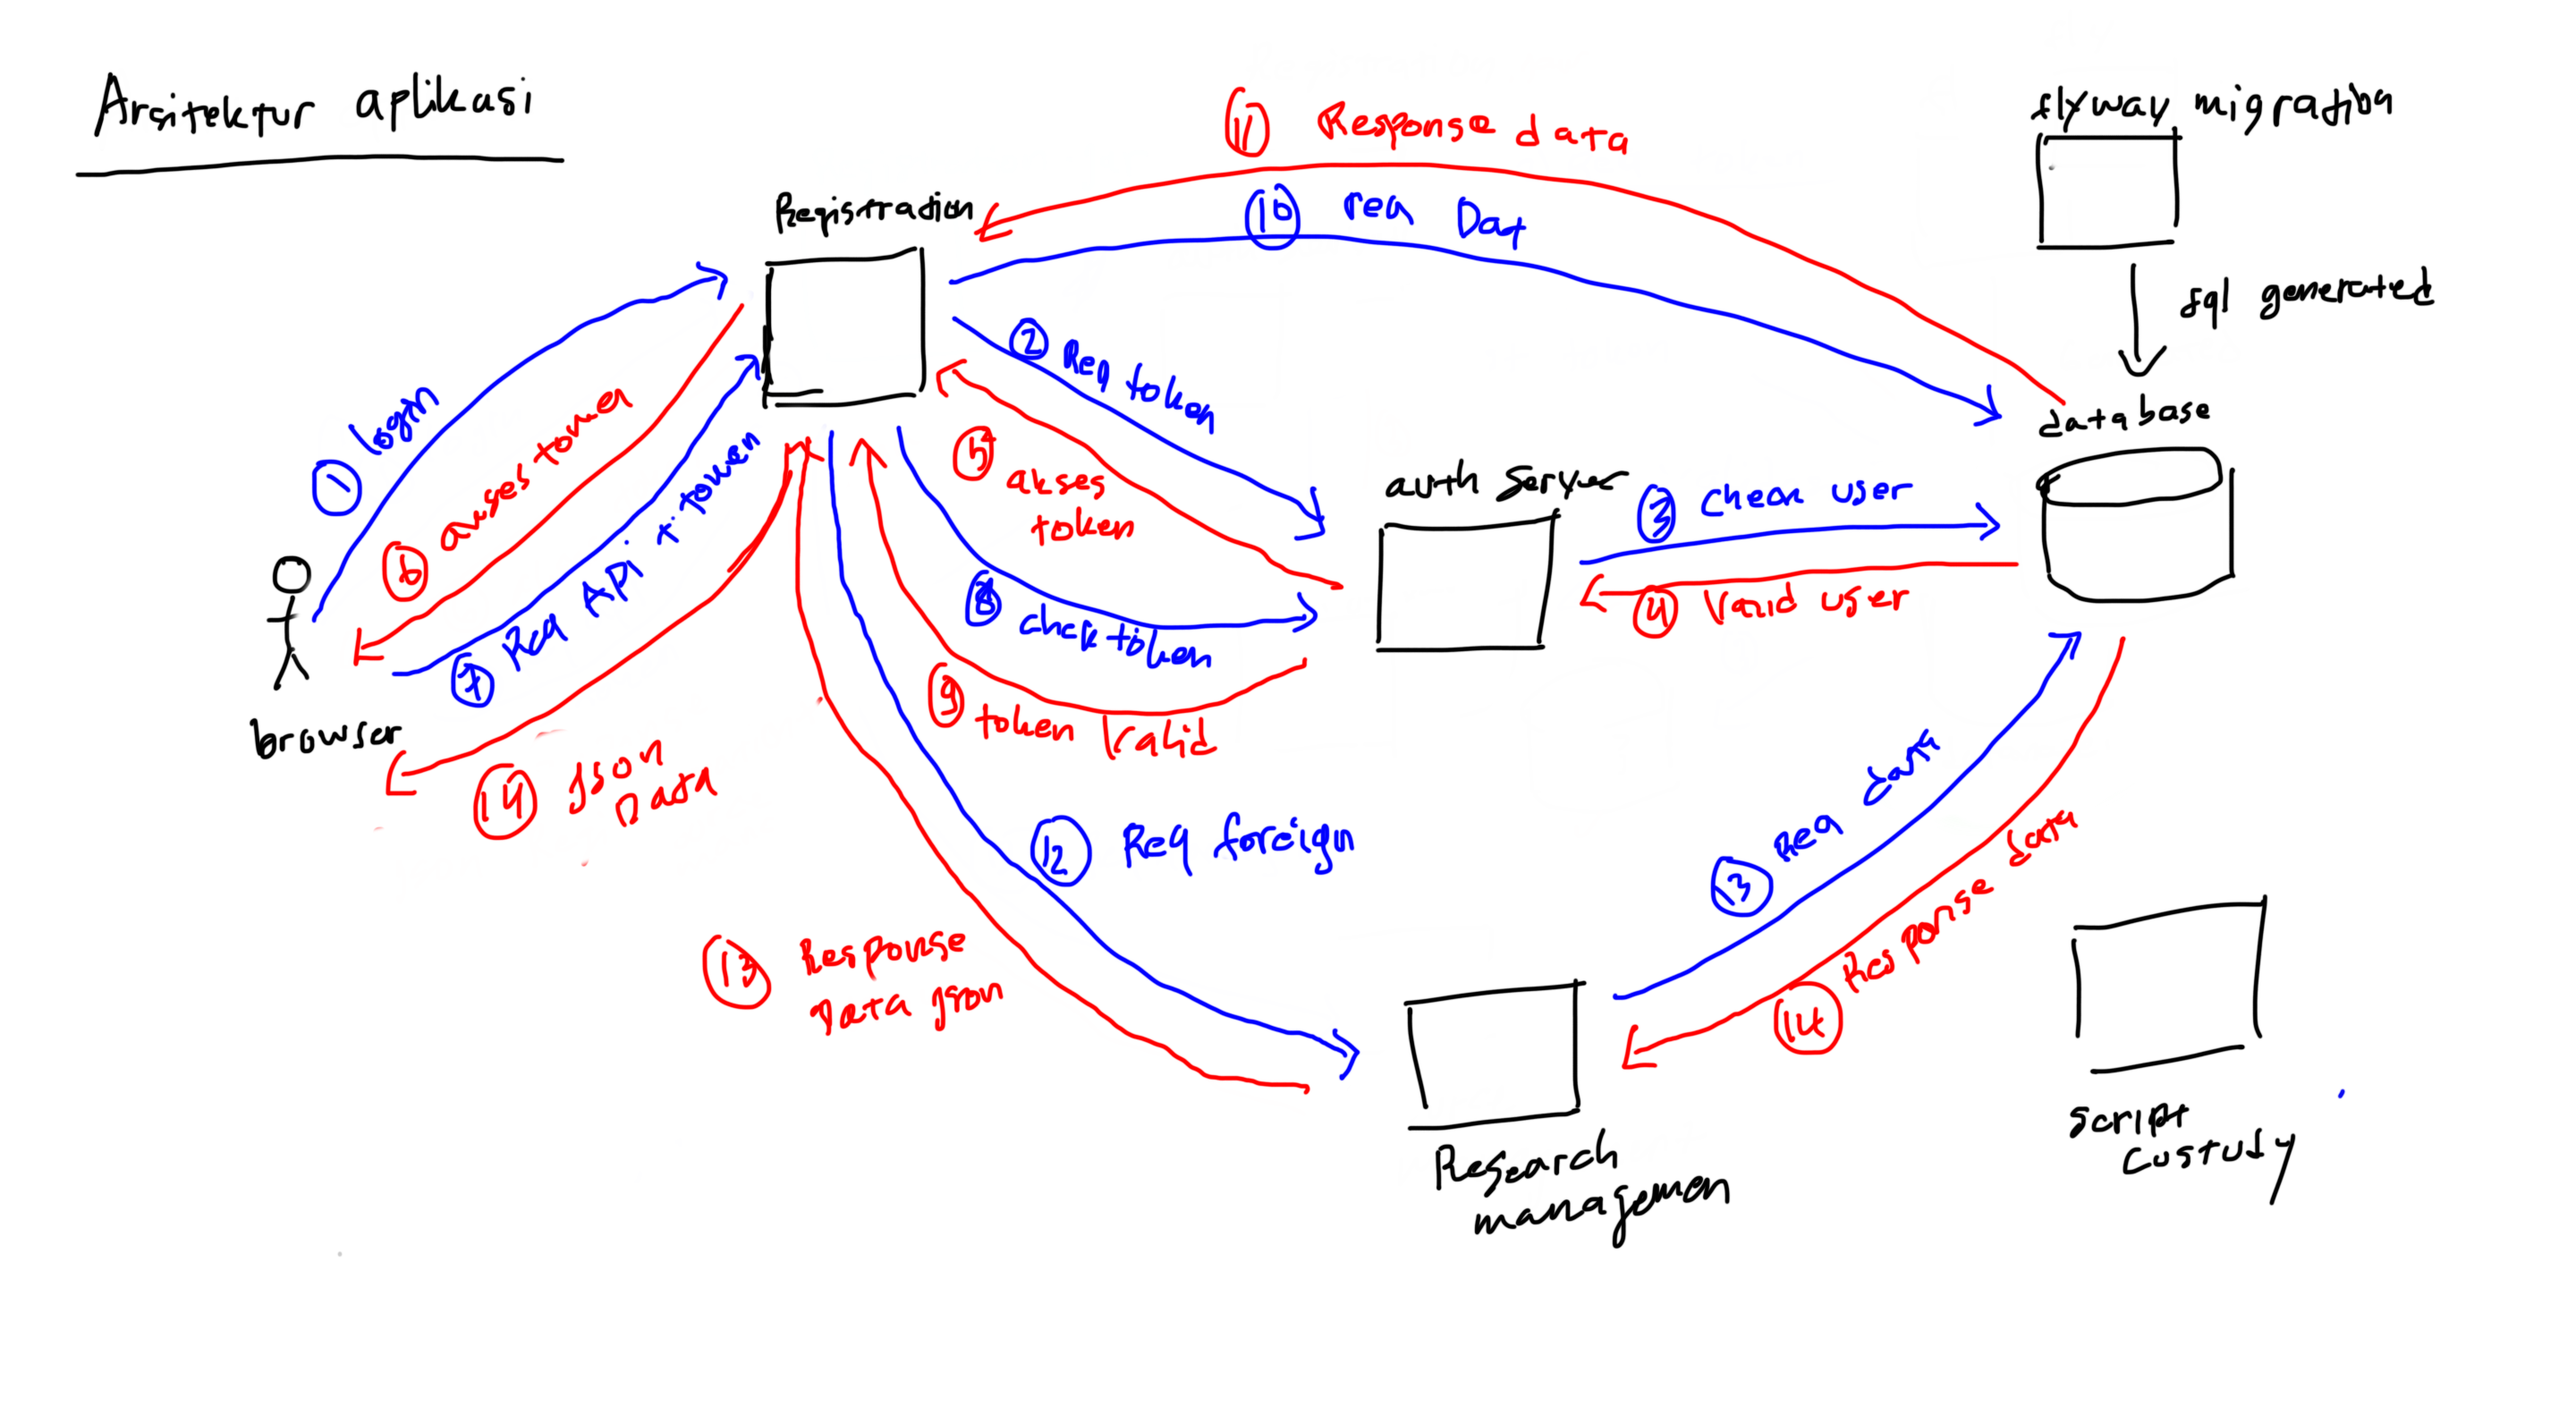
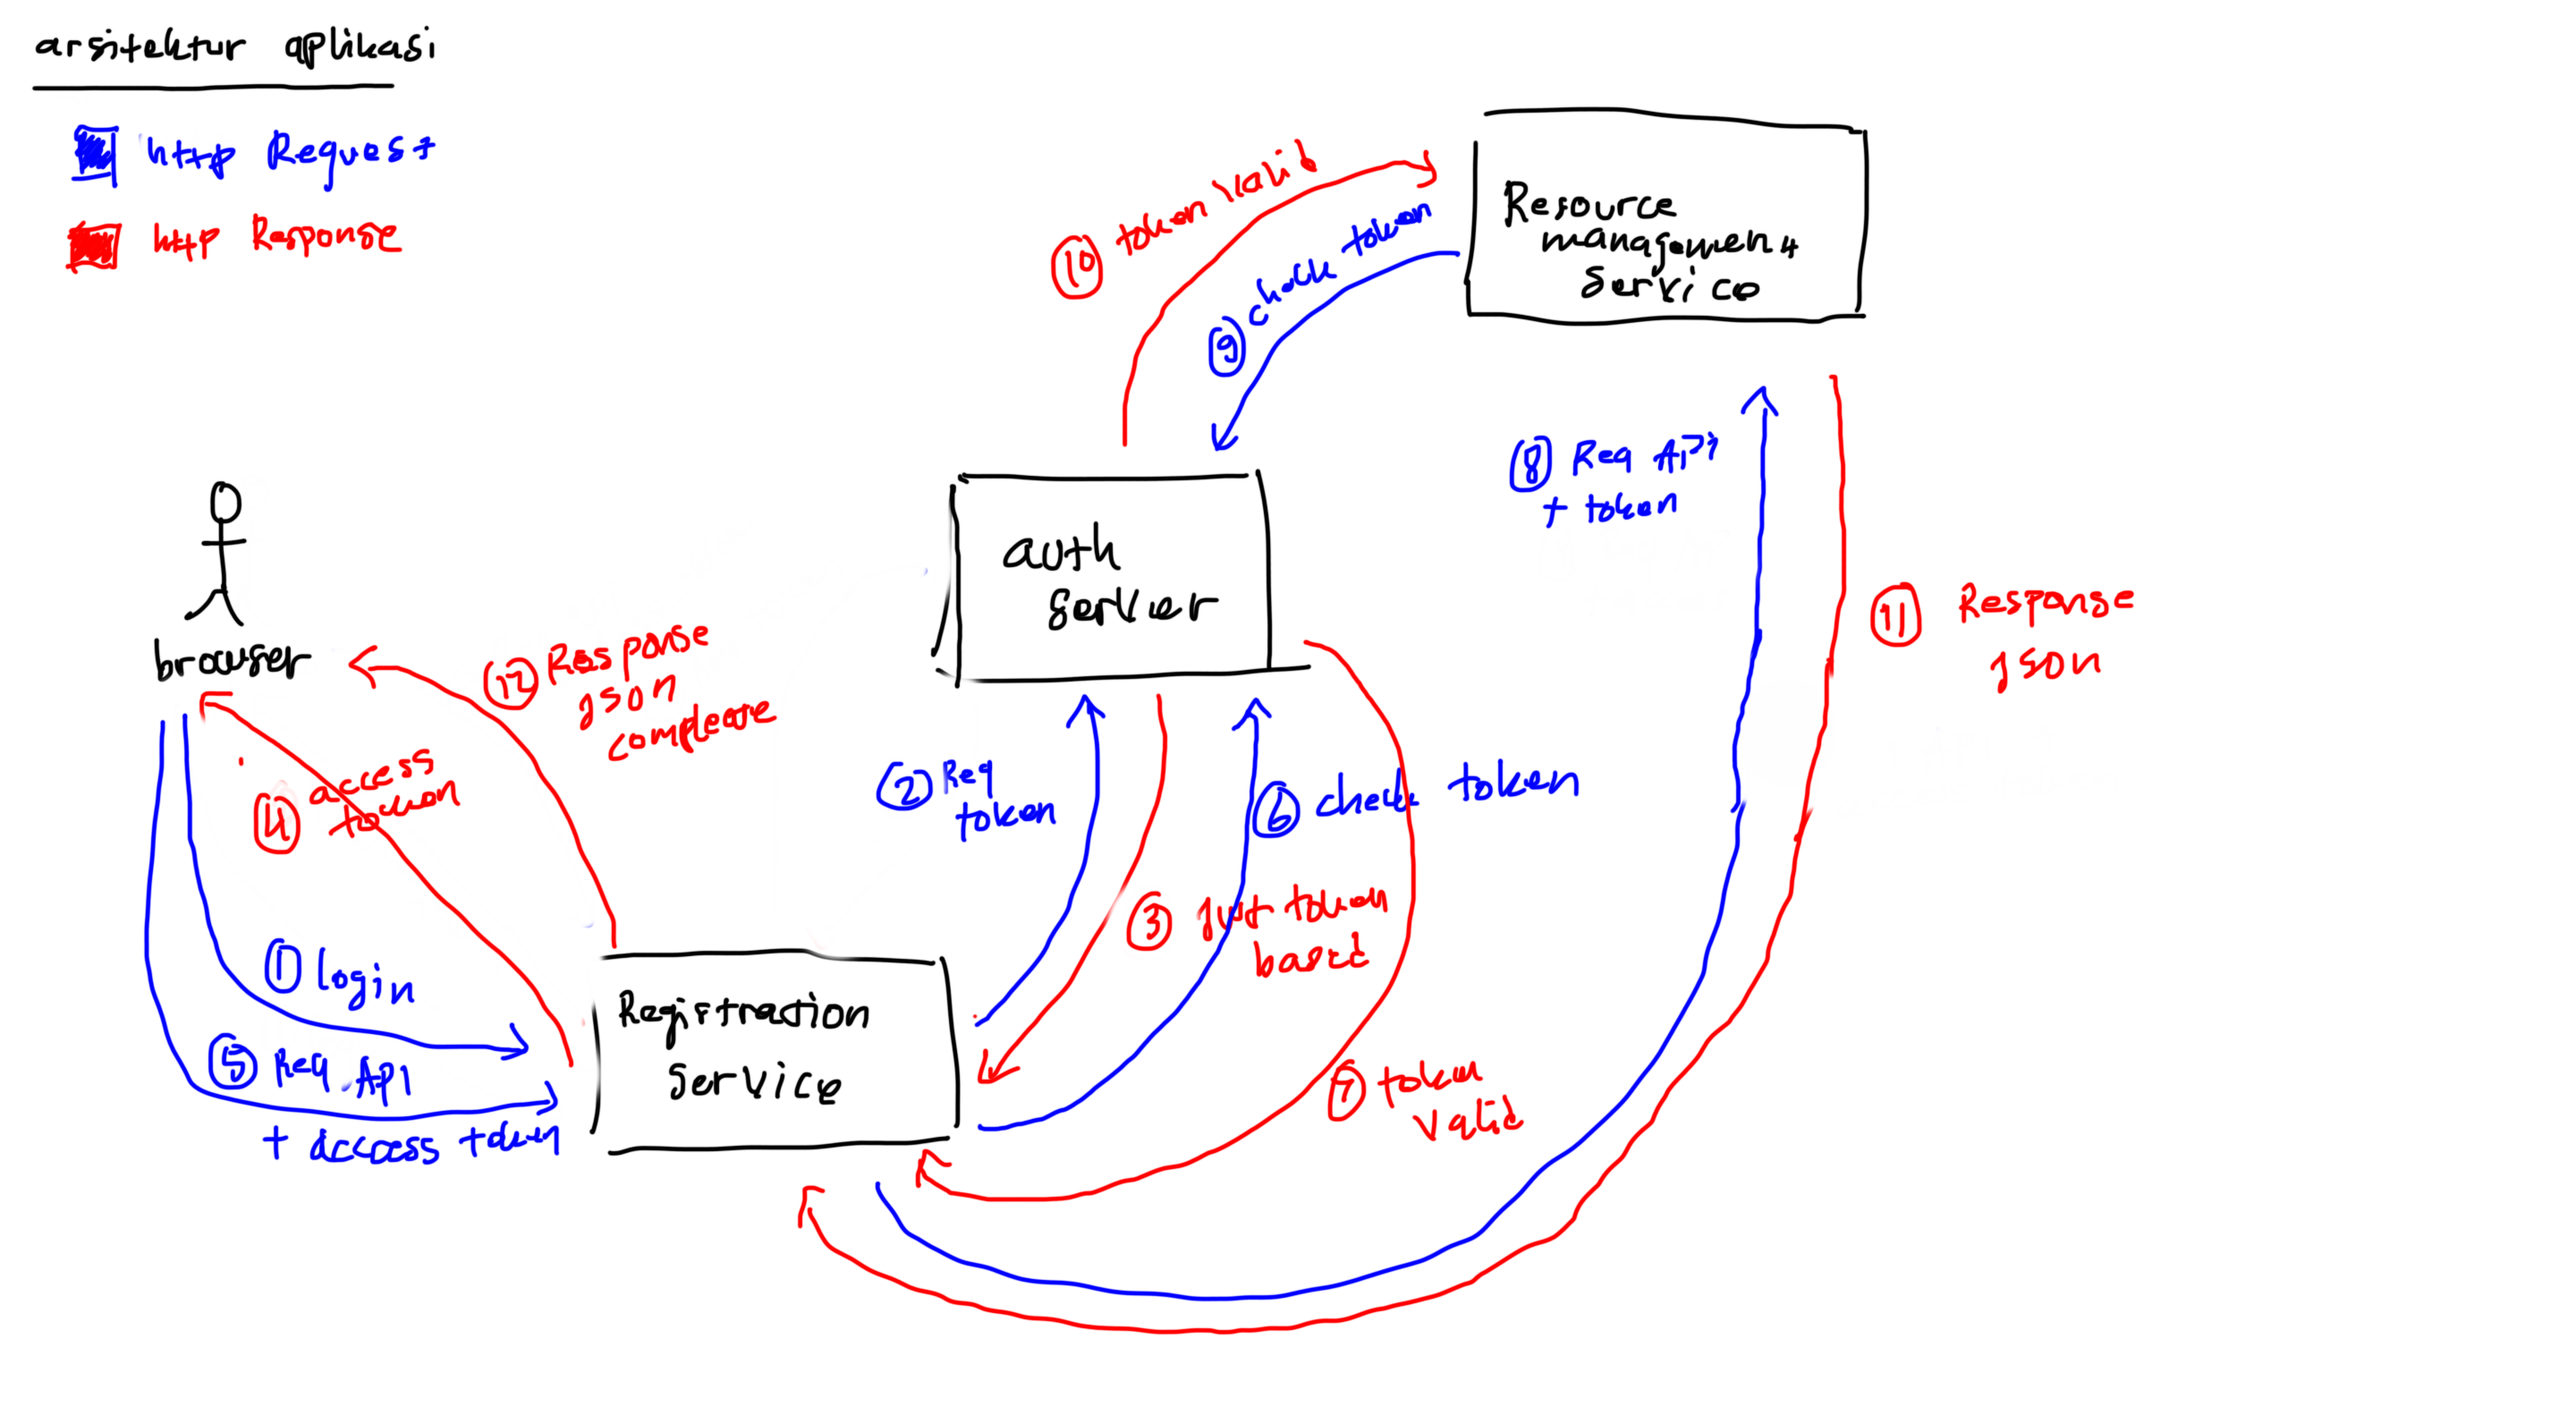
update dokumentasi dan arsitketur microservice

diff --git a/service-registration/src/main/java/com/maryanto/dimas/example/config/SecurityCustomeRestTemplateHeaderAuthentication.java b/service-registration/src/main/java/com/maryanto/dimas/example/config/SecurityCustomeRestTemplateHeaderAuthentication.java
@@ -1,0 +1,29 @@
+package com.maryanto.dimas.example.config;
+
+import org.slf4j.Logger;
+import org.slf4j.LoggerFactory;
+import org.springframework.http.HttpHeaders;
+import org.springframework.http.HttpRequest;
+import org.springframework.http.client.ClientHttpRequestExecution;
+import org.springframework.http.client.ClientHttpRequestInterceptor;
+import org.springframework.http.client.ClientHttpResponse;
+import org.springframework.security.core.Authentication;
+import org.springframework.security.core.context.SecurityContextHolder;
+
+import java.io.IOException;
+
+public class SecurityCustomeRestTemplateHeaderAuthentication implements ClientHttpRequestInterceptor {
+
+    private static final String AUTHORIZATION = "Authorization";
+
+    private static final Logger console = LoggerFactory.getLogger(SecurityCustomeRestTemplateHeaderAuthentication.class);
+
+    @Override
+    public ClientHttpResponse intercept(HttpRequest httpRequest, byte[] bytes, ClientHttpRequestExecution clientHttpRequestExecution) throws IOException {
+        Authentication authentication = SecurityContextHolder.getContext().getAuthentication();
+        console.info("security cridential : {}", authentication);
+        HttpHeaders headers = new HttpHeaders();
+        headers.add(HttpHeaders.AUTHORIZATION, "");
+        return null;
+    }
+}

diff --git a/service-registration/src/main/java/com/maryanto/dimas/example/config/RestClientConfiguration.java b/service-registration/src/main/java/com/maryanto/dimas/example/config/RestClientConfiguration.java
@@ -12,6 +12,7 @@ public class RestClientConfiguration {
     public RestTemplate restTemplate() {
         HttpComponentsClientHttpRequestFactory httpComponent = new HttpComponentsClientHttpRequestFactory();
         RestTemplate restTemplate = new RestTemplate(httpComponent);
+
 //        restTemplate.getInterceptors().add()
         return restTemplate;
     }

diff --git a/service-registration/src/main/java/com/maryanto/dimas/example/controller/RegistrationController.java b/service-registration/src/main/java/com/maryanto/dimas/example/controller/RegistrationController.java
@@ -19,7 +19,7 @@ public class RegistrationController {
     @Autowired
     private UserService userService;
 
-    @GetMapping("/")
+    @GetMapping("/new")
     public Registration getRegistration(@RequestHeader("Authorization") String token) {
         return new Registration(1, userService.getUser("engineer.dimmaryanto@outlook.com", token), 1);
     }

diff --git a/service-registration/src/main/java/com/maryanto/dimas/example/controller/DefaultController.java b/service-registration/src/main/java/com/maryanto/dimas/example/controller/DefaultController.java
@@ -1,0 +1,12 @@
+package com.maryanto.dimas.example.controller;
+
+import org.slf4j.Logger;
+import org.slf4j.LoggerFactory;
+import org.springframework.web.bind.annotation.RestControllerAdvice;
+
+@RestControllerAdvice
+public class DefaultController {
+
+    private static final Logger console = LoggerFactory.getLogger(DefaultController.class);
+
+}

diff --git a/service-registration/src/main/java/com/maryanto/dimas/example/config/ResourceServerConfiguration.java b/service-registration/src/main/java/com/maryanto/dimas/example/config/ResourceServerConfiguration.java
@@ -42,7 +42,6 @@ public class ResourceServerConfiguration extends ResourceServerConfigurerAdapter
     public void configure(HttpSecurity http) throws Exception {
         http.authorizeRequests()
                 .antMatchers("/api/user").hasRole("USER");
-
     }
 
     @Bean
